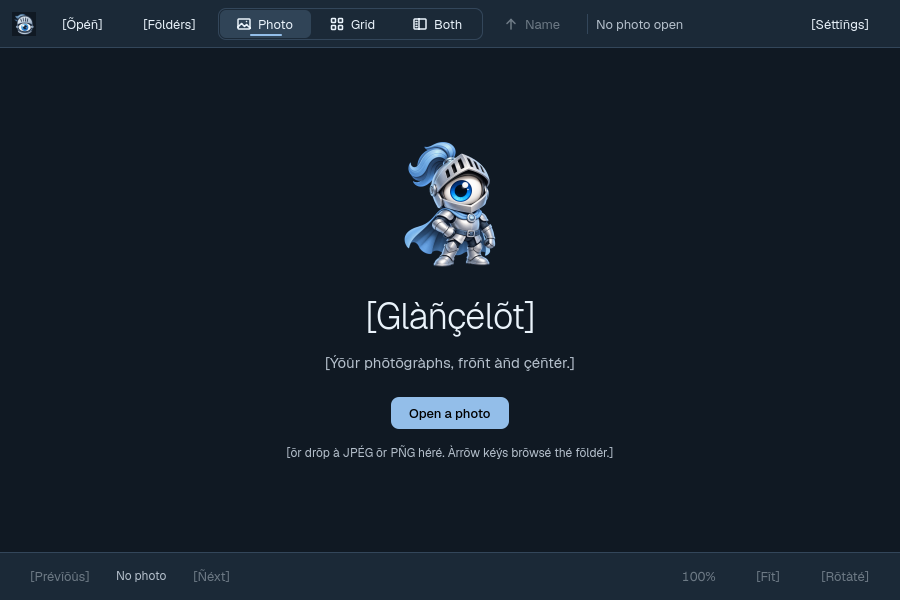
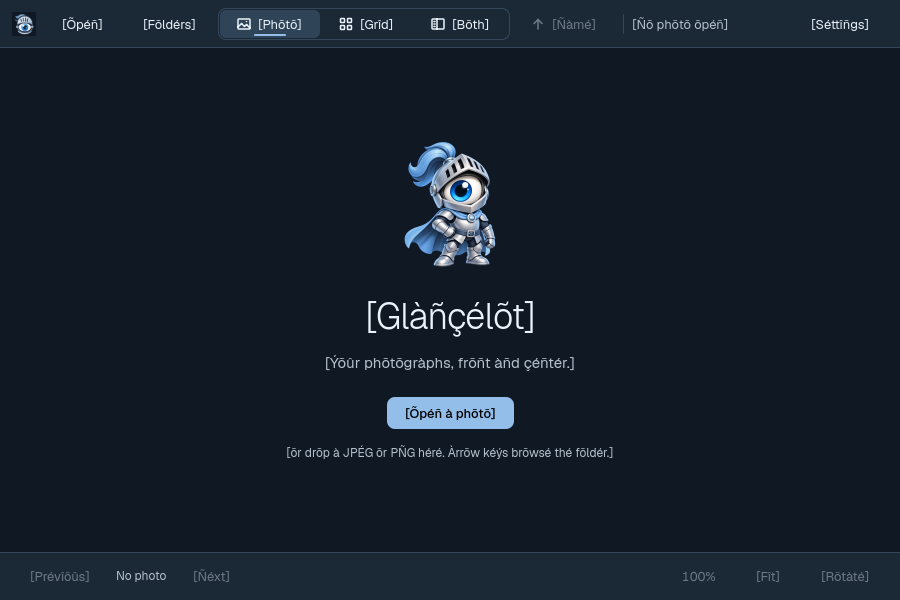
feat(i18n): translate remaining shell strings (F054)

Changed region(s): [[0.28, 0.0, 0.8089, 0.06], [0.4044, 0.66, 0.5911, 0.72]]

diff --git a/ui/Main.qml b/ui/Main.qml
@@ -38,9 +38,9 @@ ApplicationWindow {
     property string splitMessage: ""
     readonly property bool modeCompact: width < 760 || !topPanel.horizontalBar || topPanel.modeSpace < modeSelector.implicitWidth + barGridtopbar.columnSpacing
     readonly property var contentModes: [
-        { id: "preview", command: "view-preview", label: "Photo", icon: "image", tip: qsTr("Photo only") },
-        { id: "grid", command: "view-grid", label: "Grid", icon: "grid", tip: qsTr("Folder grid only") },
-        { id: "combined", command: "view-combined", label: "Both", icon: "split", tip: qsTr("Grid and photo together") }
+        { id: "preview", command: "view-preview", label: qsTr("Photo"), icon: "image", tip: qsTr("Photo only") },
+        { id: "grid", command: "view-grid", label: qsTr("Grid"), icon: "grid", tip: qsTr("Folder grid only") },
+        { id: "combined", command: "view-combined", label: qsTr("Both"), icon: "split", tip: qsTr("Grid and photo together") }
     ]
     // Explicit state of the combined preview: "" shows the decoded photo; "loading" keeps the canvas under a delayed
     // indicator; every other state covers the canvas so a stale photo is never presented as the cursor's item.
@@ -1288,7 +1288,7 @@ ApplicationWindow {
             Layout.maximumWidth: emptyState.width
             Layout.minimumWidth: 0
             variant: "primary"
-            text: emptyState.compactContent ? "Open" : "Open a photo"
+            text: emptyState.compactContent ? qsTr("Open") : qsTr("Open a photo")
             Accessible.name: "Open a photo"
             tip: "Open a photo" + app.shortcutHint("open")
             onClicked: app.invoke("open")
@@ -1461,7 +1461,7 @@ ApplicationWindow {
                 objectName: "sortButton"
                 visible: topPanel.fitSort
                 iconName: viewer.sortDescending ? "arrow-down" : "arrow-up"
-                text: ({ name: "Name", modified: "Date", size: "Size", shuffle: "Shuffle" }[viewer.sortKey])
+                text: ({ name: qsTr("Name"), modified: qsTr("Date"), size: qsTr("Size"), shuffle: qsTr("Shuffle") }[viewer.sortKey])
                 enabled: viewer.fileCount > 0
                 onClicked: app.invoke("sort")
                 tip: "Cycle file order" + app.shortcutHint("sort") + (viewer.bindingFor("sort-reverse").length ? "; reverse with " + viewer.bindingFor("sort-reverse") : "")
@@ -1517,7 +1517,7 @@ ApplicationWindow {
             Label {
                 objectName: "topBarTitle"
                 visible: viewer.tabs.length < 2
-                text: viewer.fileName || "No photo open"
+                text: viewer.fileName || qsTr("No photo open")
                 elide: Text.ElideMiddle
                 Layout.fillWidth: true
                 // Like a native caption, an inactive window shows its title in the muted role (still >= 4.5:1).
@@ -1626,7 +1626,7 @@ ApplicationWindow {
             UiButton { text: qsTr("Previous"); visible: !app.gridMode && !app.combinedMode; enabled: viewer.fileCount > 0; tip: "Previous photo" + app.shortcutHint("previous"); onClicked: app.invoke("previous") }
             BarLabel {
                 visible: !app.gridMode && !app.combinedMode
-                text: viewer.fileCount > 0 ? viewer.currentIndex + " of " + viewer.fileCount : "No photo"
+                text: viewer.fileCount > 0 ? qsTr("%1 of %2").arg(viewer.currentIndex).arg(viewer.fileCount) : qsTr("No photo")
                 Layout.leftMargin: Theme.gapXs; Layout.rightMargin: Theme.gapXs
             }
             UiButton { text: qsTr("Next"); visible: !app.gridMode && !app.combinedMode; enabled: viewer.fileCount > 0; tip: "Next photo" + app.shortcutHint("next"); onClicked: app.invoke("next") }

diff --git a/translations/glancelot_en_XA.ts b/translations/glancelot_en_XA.ts
@@ -310,6 +310,38 @@
         <source>Open a photo</source>
         <translation>[Õpéñ à phõtõ]</translation>
     </message>
+    <message>
+        <source>Photo</source>
+        <translation>[Phõtõ]</translation>
+    </message>
+    <message>
+        <source>Grid</source>
+        <translation>[Grîd]</translation>
+    </message>
+    <message>
+        <source>Both</source>
+        <translation>[Bõth]</translation>
+    </message>
+    <message>
+        <source>Name</source>
+        <translation>[Ñàmé]</translation>
+    </message>
+    <message>
+        <source>Date</source>
+        <translation>[Dàté]</translation>
+    </message>
+    <message>
+        <source>Size</source>
+        <translation>[Sîzé]</translation>
+    </message>
+    <message>
+        <source>Shuffle</source>
+        <translation>[Shûfflé]</translation>
+    </message>
+    <message>
+        <source>No photo open</source>
+        <translation>[Ñõ phõtõ õpéñ]</translation>
+    </message>
 </context>
 <context>
     <name>PaneArrangement</name>
